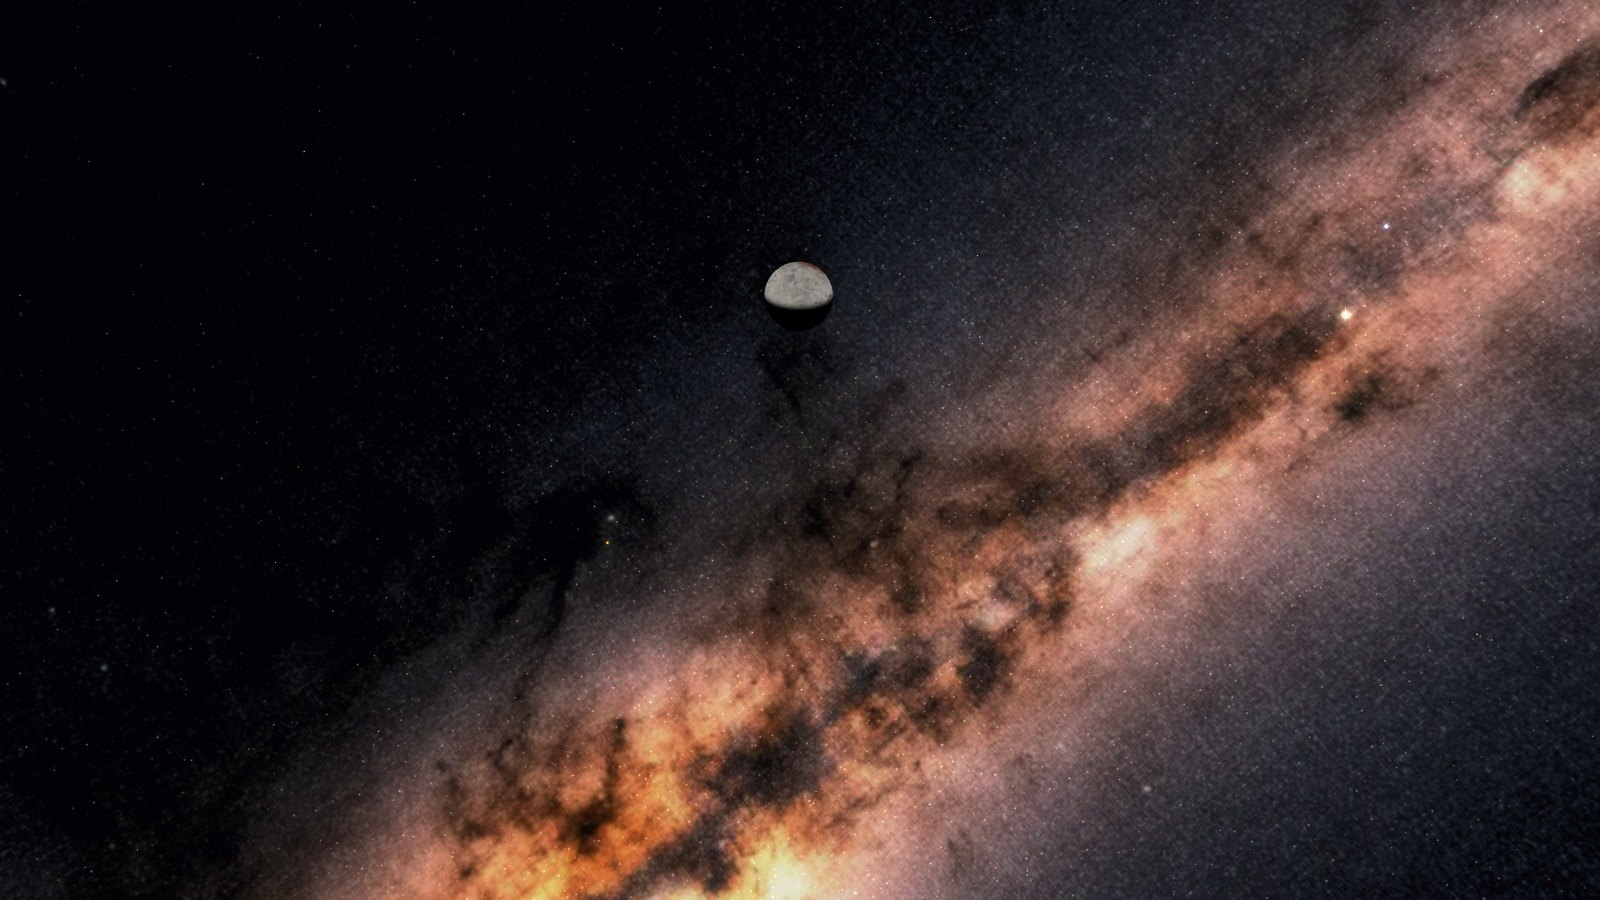
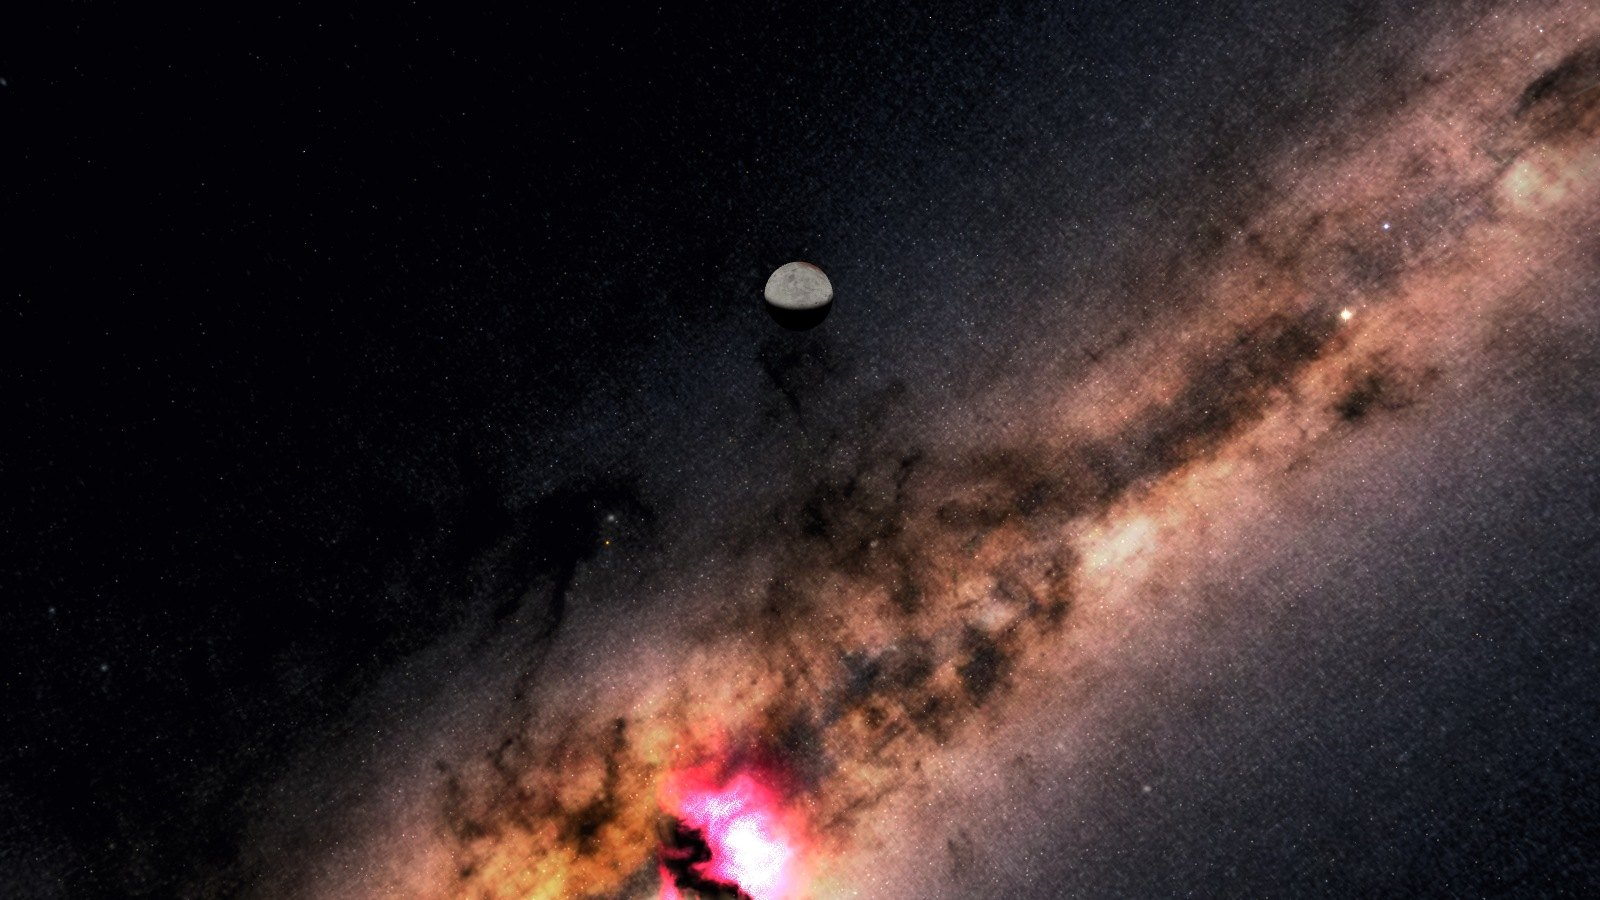
fix: look-up view glitches — smooth horizon, glowing twilight, tidy sky labels
- Ground: a finely curved cap of the world's own surface around where you stand; the coarse globe's
  flat facets no longer stick up above the horizon as a hard-cornered wedge (Mars, Miranda, small moons)
- Twilight: an approximate multiple-scattering term and eye adaptation after sunset, so civil twilight
  on Earth (and Mars) glows instead of going black; daylight skies are unchanged
- Sky labels: brightest objects keep their place, near-coincident ones merge ('Earth · Moon'),
  others step clear or hide instead of overlapping
- Nebulae: after a daylit sky faded them out they never came back; they now return at night
- Gallery pictures re-shot so each matches its 'Take me there' view exactly

Changed region(s): [[0.4062, 0.8089, 0.5312, 1.0], [0.9375, 0.0933, 1.0, 0.28]]

diff --git a/src/explorer/SurfaceObserver.ts b/src/explorer/SurfaceObserver.ts
@@ -81,6 +81,61 @@ function eyeHeightKm(body: SurfaceBody): number {
 }
 
 /**
+ * A finely curved patch of ground around where you stand, on the body's own material. The globe
+ * itself is a coarse sphere (on small moons its facets are 10° wide): seen from a few hundred metres
+ * up, a flat facet's straight edges stick up above the true horizon as a wedge. The cap reaches a
+ * few horizon distances out, so the horizon you see is the real curve.
+ */
+function groundCap(centre: THREE.Vector3, horizonRad: number): THREE.BufferGeometry {
+  const RINGS = 72;
+  const SECTORS = 160;
+  const reach = Math.min(Math.PI * 0.45, Math.max(horizonRad * 4, 0.01));
+  const c = centre.clone().normalize();
+  const a = Math.abs(c.y) > 0.9 ? new THREE.Vector3(1, 0, 0) : new THREE.Vector3(0, 1, 0);
+  const e1 = new THREE.Vector3().crossVectors(a, c).normalize();
+  const e2 = new THREE.Vector3().crossVectors(c, e1);
+  // SphereGeometry's own mapping, so the cap shows exactly the globe's texture
+  const uvOf = (p: THREE.Vector3): [number, number] => {
+    const theta = Math.acos(THREE.MathUtils.clamp(p.y, -1, 1));
+    let u = Math.atan2(p.z, -p.x) / (2 * Math.PI);
+    if (u < 0) u += 1;
+    return [u, 1 - theta / Math.PI];
+  };
+  const uc = uvOf(c)[0];
+  const pos: number[] = [], nor: number[] = [], uv: number[] = [], idx: number[] = [];
+  const p = new THREE.Vector3();
+  for (let i = 0; i <= RINGS; i++) {
+    // Rings packed towards the middle: the horizon (a quarter of the reach) gets the most
+    const ang = reach * Math.pow(i / RINGS, 1.6);
+    const sa = Math.sin(ang), ca = Math.cos(ang);
+    for (let j = 0; j <= SECTORS; j++) {
+      const t = (j / SECTORS) * Math.PI * 2;
+      p.copy(c).multiplyScalar(ca).addScaledVector(e1, sa * Math.cos(t)).addScaledVector(e2, sa * Math.sin(t)).normalize();
+      // A hair above the globe (where their vertices meet) and below the imagery tiles
+      pos.push(p.x * 1.00002, p.y * 1.00002, p.z * 1.00002);
+      nor.push(p.x, p.y, p.z);
+      const [u0, v] = uvOf(p);
+      const u = uc + ((((u0 - uc + 0.5) % 1) + 1) % 1) - 0.5; // no jump across the date line
+      uv.push(u, v);
+    }
+  }
+  for (let i = 0; i < RINGS; i++) {
+    for (let j = 0; j < SECTORS; j++) {
+      const k = i * (SECTORS + 1) + j;
+      const n = k + SECTORS + 1;
+      idx.push(k, n, k + 1, k + 1, n, n + 1);
+    }
+  }
+  const g = new THREE.BufferGeometry();
+  g.setAttribute('position', new THREE.Float32BufferAttribute(pos, 3));
+  g.setAttribute('normal', new THREE.Float32BufferAttribute(nor, 3));
+  g.setAttribute('uv', new THREE.Float32BufferAttribute(uv, 2));
+  g.setIndex(idx);
+  g.computeBoundingSphere();
+  return g;
+}
+
+/**
  * "Stand on the surface and look up": a camera fixed to a point on a rotating body, with the
  * body's own sky (atmospheric scattering), the Sun, planets and moons at their true topocentric
  * positions and sizes, and a telescope-like zoom. Takes over the camera from the orbit rig while
@@ -116,6 +171,7 @@ export class SurfaceObserver {
   private lastTime = performance.now();
   private lastInput = performance.now();
   private idle = 0;
+  private cap: THREE.Mesh | null = null;
 
   constructor(deps: SurfaceObserverDeps) {
     this.d = deps;
@@ -145,6 +201,7 @@ export class SurfaceObserver {
     this.fov = this.targetFov = DEFAULT_FOV;
     this.active = true;
     this.attach();
+    this.addGroundCap(body, lat, lon);
     this.computeFrame();
     this.d.setSceneMode(true, bodyName, this.skyRadii().stars);
     // Aim after the first sky update so we know what is above the horizon
@@ -159,6 +216,7 @@ export class SurfaceObserver {
     if (!this.active) return;
     this.active = false;
     this.detach();
+    this.removeGroundCap();
     this.atmosphere.mesh.visible = false;
     this.sky.group.visible = false;
     this.d.camera.up.set(0, 1, 0);
@@ -167,6 +225,31 @@ export class SurfaceObserver {
     if (this.body) this.d.setSceneMode(false, this.body.name, 0);
     this.d.setGround(null, null);
     this.status = null;
+  }
+
+  private addGroundCap(body: SurfaceBody, lat: number, lon: number): void {
+    this.removeGroundCap();
+    const mat = body.surfaceMesh.material as THREE.Material & { uniforms?: Record<string, { value: unknown }> };
+    // The cap may cross the map's date line: let the textures repeat instead of clamping there
+    for (const key of ['map', 'normalMap']) {
+      const t = mat.uniforms?.[key]?.value;
+      if (t instanceof THREE.Texture && t.wrapS !== THREE.RepeatWrapping) {
+        t.wrapS = THREE.RepeatWrapping;
+        t.needsUpdate = true;
+      }
+    }
+    const horizon = Math.sqrt((2 * eyeHeightKm(body)) / body.radiusKm);
+    this.cap = new THREE.Mesh(groundCap(new THREE.Vector3(...latLonToLocal(lat, lon)), horizon), mat);
+    this.cap.name = 'surface_ground_cap';
+    this.cap.renderOrder = body.surfaceMesh.renderOrder;
+    body.surfaceMesh.add(this.cap);
+  }
+
+  private removeGroundCap(): void {
+    if (!this.cap) return;
+    this.cap.removeFromParent();
+    this.cap.geometry.dispose();
+    this.cap = null;
   }
 
   /** Current standing point (for "back to orbit"). */
@@ -230,6 +313,8 @@ export class SurfaceObserver {
     if (!this.active) return [];
     return this.objects
       .filter((o) => o.visible && o.altDeg > -1 && (o.magnitude < 3.5 || o.name === 'Sun'))
+      // Brightest first: they keep their place when labels crowd together
+      .sort((a, b) => (a.name === 'Sun' ? -99 : a.magnitude) - (b.name === 'Sun' ? -99 : b.magnitude))
       .slice(0, 14)
       .map((o) => ({
         id: `sky:${o.name}`,

diff --git a/src/explorer/ScreenLabels.ts b/src/explorer/ScreenLabels.ts
@@ -34,27 +34,50 @@ export class ScreenLabels {
     container.appendChild(this.root);
   }
 
-  /** Show `items` (anything not listed is hidden). Points behind the camera are skipped. */
+  /**
+   * Show `items` (anything not listed is hidden). Points behind the camera are skipped. Earlier
+   * items win: a later label whose point falls right on an earlier one merges into it ("Earth ·
+   * Moon"), one that would overlap steps below or above, and one with no room left is hidden.
+   */
   public update(items: ScreenLabelItem[], camera: THREE.Camera, width: number, height: number): void {
-    const seen = new Set<string>();
+    const placed: Array<{ item: ScreenLabelItem; x: number; y: number; dy: number; text: string; sub: string; w: number; merged: boolean }> = [];
+    const box = (p: { x: number; y: number; dy: number; w: number }) => ({ l: p.x - 4, r: p.x + p.w, t: p.y + p.dy - 9, b: p.y + p.dy + 9 });
+    const hit = (a: ReturnType<typeof box>, b: ReturnType<typeof box>) => a.l < b.r && b.l < a.r && a.t < b.b && b.t < a.b;
+    const widthOf = (text: string, sub: string) => text.length * 7 + (sub ? sub.length * 5.6 + 6 : 0) + 6;
     for (const item of items) {
       this.tmp.copy(item.world).project(camera);
       if (this.tmp.z > 1 || this.tmp.z < -1) continue;
       const x = (this.tmp.x * 0.5 + 0.5) * width;
       const y = (-this.tmp.y * 0.5 + 0.5) * height;
       if (x < -50 || y < -20 || x > width + 50 || y > height + 20) continue;
-      seen.add(item.id);
-      let node = this.nodes.get(item.id);
+      // Practically the same point as a label already placed: say both names on one label
+      const twin = item.kind === 'sky' ? placed.find((p) => !p.merged && Math.hypot(p.x - x, p.y - y) < 26) : undefined;
+      if (twin) {
+        twin.text = `${twin.text} · ${item.text}`;
+        twin.sub = '';
+        twin.w = widthOf(twin.text, '');
+        continue;
+      }
+      const text = item.text;
+      const sub = item.sub ?? '';
+      const w = widthOf(text, sub);
+      const spot = [0, 16, -16, 32].map((dy) => ({ x, y, dy, w })).find((c) => !placed.some((p) => hit(box(c), box(p))));
+      if (!spot) continue;
+      placed.push({ item, x, y, dy: spot.dy, text, sub, w, merged: false });
+    }
+    const seen = new Set<string>();
+    for (const p of placed) {
+      seen.add(p.item.id);
+      let node = this.nodes.get(p.item.id);
       if (!node) {
-        node = this.createNode(item);
-        this.nodes.set(item.id, node);
+        node = this.createNode(p.item);
+        this.nodes.set(p.item.id, node);
       }
       const label = node.firstChild!.nextSibling as HTMLSpanElement;
-      if (label.textContent !== item.text) label.textContent = item.text;
+      if (label.textContent !== p.text) label.textContent = p.text;
       const sub = label.nextSibling as HTMLSpanElement;
-      const subText = item.sub ?? '';
-      if (sub.textContent !== subText) sub.textContent = subText;
-      node.style.transform = `translate(${x.toFixed(1)}px, ${y.toFixed(1)}px)`;
+      if (sub.textContent !== p.sub) sub.textContent = p.sub;
+      node.style.transform = `translate(${p.x.toFixed(1)}px, ${(p.y + p.dy).toFixed(1)}px)`;
       node.style.display = 'flex';
     }
     for (const [id, node] of this.nodes) {

diff --git a/src/explorer/SkyAtmosphere.ts b/src/explorer/SkyAtmosphere.ts
@@ -4,8 +4,9 @@ import * as THREE from 'three';
  * Sky seen from a planet's surface: single-scattering Rayleigh + Mie (Nishita-style), evaluated
  * per pixel on a dome around the observer. Parameters are physical where known (Earth: standard
  * clear-sky coefficients; Mars: CO₂ Rayleigh + suspended dust, τ≈0.5) and approximate for the
- * giant planets. Venus's surface sits under a total overcast. Multiple scattering is ignored, so
- * deep twilight is somewhat darker than reality.
+ * giant planets. Venus's surface sits under a total overcast. Light scattered more than once is
+ * added as a soft isotropic term (it is most of what lights the sky in twilight), and the exposure
+ * adapts after sunset as the eye does, so civil twilight is a glowing blue, not black.
  */
 export interface AtmosphereModel {
   kind: 'none' | 'scatter' | 'overcast';
@@ -118,6 +119,7 @@ const fragmentShader = /* glsl */ `
   uniform float uSunElev;   // sine of the solar elevation (overcast brightness)
   uniform float uExposure;
   uniform float uStarDim;   // 0 at night … 1 in daylight: the sky drowns the stars
+  uniform float uMulti;     // strength of the multiple-scattering term
   varying vec3 vDir;
 
   const float PI = 3.14159265;
@@ -189,7 +191,10 @@ const fragmentShader = /* glsl */ `
     }
     float mu = dot(d, s);
     float pr = 3.0 / (16.0 * PI) * (1.0 + mu * mu);
-    vec3 col = uSunI * (sumR * uBetaR * pr + sumM * uBetaMs * phaseM(mu));
+    vec3 single = sumR * uBetaR * pr + sumM * uBetaMs * phaseM(mu);
+    // Multiple scattering (approx.): light already scattered once, spread evenly over the sky
+    vec3 multi = (sumR * uBetaR + sumM * uBetaMs) * (uMulti / (4.0 * PI));
+    vec3 col = uSunI * (single + multi);
     vec3 trans = exp(-(uBetaR * odR + uBetaMe * odM + uBetaA * odR));
     col *= uExposure;
     float lum = dot(col, vec3(0.2126, 0.7152, 0.0722));
@@ -204,6 +209,7 @@ export class SkyAtmosphere {
   public readonly mesh: THREE.Mesh;
   private material: THREE.ShaderMaterial;
   public model: AtmosphereModel = NONE;
+  private static readonly EXPOSURE = 1.15;
 
   constructor() {
     this.material = new THREE.ShaderMaterial({
@@ -228,6 +234,7 @@ export class SkyAtmosphere {
         uSunElev: { value: 0 },
         uExposure: { value: 1.15 },
         uStarDim: { value: 0 },
+        uMulti: { value: 0.1 },
       },
       vertexShader,
       fragmentShader,
@@ -290,6 +297,11 @@ export class SkyAtmosphere {
     // Stars fade from civil twilight (−6°) to sunrise, as they do to the eye
     const sunAlt = (Math.asin(THREE.MathUtils.clamp(u.uSunElev.value, -1, 1)) * 180) / Math.PI;
     u.uStarDim.value = this.model.kind === 'scatter' ? THREE.MathUtils.smoothstep(sunAlt, -10, -1) * this.starDimScale : 0;
+    // The eye adapts after sunset: twilight reads as a lit sky, not the black of a daytime exposure
+    const dusk = THREE.MathUtils.smoothstep(-sunAlt, -1, 5);
+    u.uExposure.value = SkyAtmosphere.EXPOSURE * (1 + 7 * dusk);
+    // By day single scattering already looks right; in twilight most of the light is multiply scattered
+    u.uMulti.value = 0.1 + 1.1 * dusk;
   }
 
   /** Thin atmospheres (giants' upper air in dim sunlight) dim the stars less. */

diff --git a/src/data/Postcards.ts b/src/data/Postcards.ts
@@ -38,7 +38,7 @@ export const POSTCARDS: Postcard[] = [
   },
   {
     id: 'charon-core', title: 'Charon over the heart of the galaxy', place: 'Pluto, the side that faces Charon',
-    caption: 'Pluto and Charon face each other forever, so Charon hangs over only one half of Pluto and never moves. Behind it, the centre of the Milky Way. It is midday, and the sky is black.',
+    caption: 'Pluto and Charon face each other forever, so Charon hangs over only one half of Pluto and never moves. Behind it, the centre of the Milky Way and a glowing nebula. It is midday, and the sky is black.',
     body: 'Pluto', lat: 44.95, lon: 26.1, utc: '2026-11-18T01:05:05Z', heading: 213, pitch: 29, fov: 46, magnification: 1,
   },
   {
@@ -48,7 +48,7 @@ export const POSTCARDS: Postcard[] = [
   },
   {
     id: 'uranus-galaxy', title: 'Uranus and the Milky Way', place: 'Miranda, southern hemisphere',
-    caption: 'Half-lit Uranus beside the Milky Way and both Magellanic Clouds, from the little moon with the tallest cliffs known.',
+    caption: 'Half-lit Uranus beside the Milky Way, the Magellanic Clouds and the glowing clouds of Carina, from the little moon with the tallest cliffs known.',
     body: 'Miranda', lat: -48.8, lon: -12.63, utc: '2026-11-19T01:05:20Z', heading: 22, pitch: 37, fov: 66, magnification: 1,
   },
   {
@@ -63,7 +63,7 @@ export const POSTCARDS: Postcard[] = [
   },
   {
     id: 'martian-dusk', title: 'Two worlds at dusk', place: 'Mars, Meridiani Planum',
-    caption: 'Minutes after sunset, the blue Martian dusk glows over the horizon. Above it, Earth with its Moon, and Venus, drawn poster-size.',
+    caption: 'Minutes after sunset, a golden Martian dusk with its blue heart glows over the horizon. Above it, Earth with its Moon, and Venus, drawn poster-size.',
     body: 'Mars', lat: 4.94, lon: -3.65, utc: '2026-11-14T05:49:00Z', heading: 283, pitch: 15, fov: 72, magnification: 1000,
   },
 ];

diff --git a/src/rendering/NebulaSky.ts b/src/rendering/NebulaSky.ts
@@ -216,7 +216,8 @@ export class NebulaSky {
    * @param zoomRate d ln(distance)/dt of the camera (negative while zooming in)
    */
   public update(dt: number, velocity: THREE.Vector3, leaving: number, zoomRate = 0): void {
-    if (!this.group.visible) return;
+    // Keep easing even while hidden: a daylit sky fades them out, night must bring them back
+    if (!this.layers.length) return;
     this.time.value += dt;
     this.reveal = Math.min(1, this.reveal + dt / 3.5);
     // The halo drifts against the motion (eased, capped), and the whole sky breathes back after
